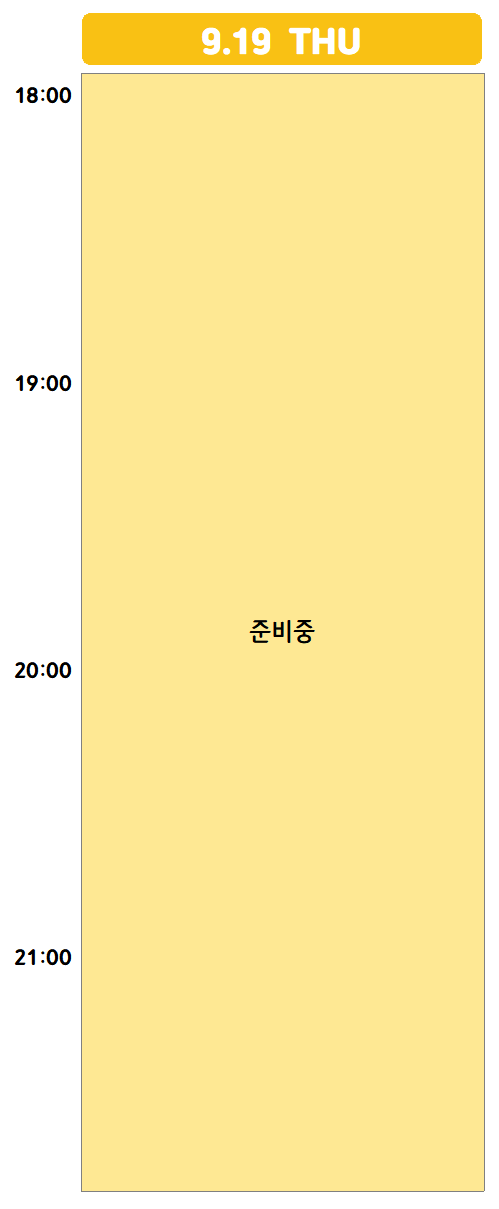
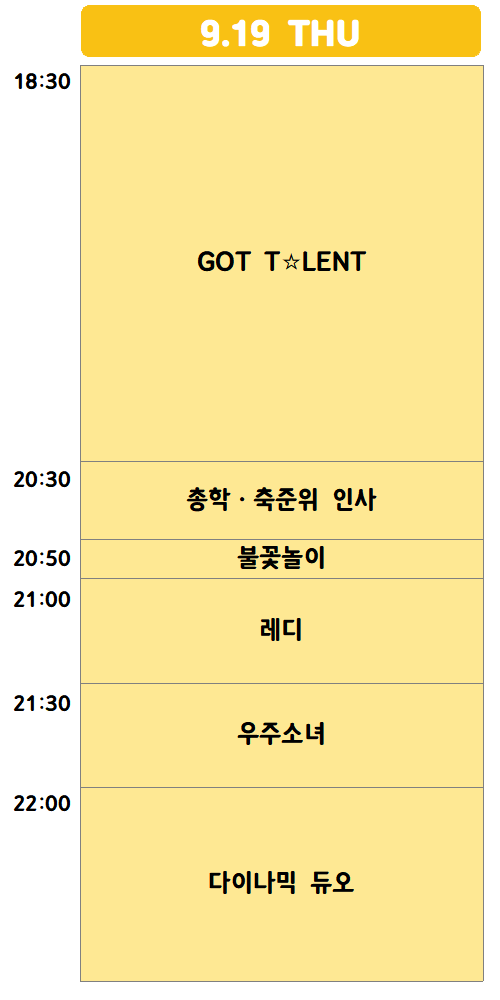
add content to timetable

diff --git a/index/templates/index.html b/index/templates/index.html
@@ -26,12 +26,12 @@
     <div class="empty" id="lineup"></div>
     <h1 class="title">라인업</h1>
     <!-- Slider main container -->
-    <div class="swiper-container">
+    <div class="swiper-container swiper-lineup">
       <!-- Additional required wrapper -->
       <div class="swiper-wrapper">
         <!-- Slides -->
-        <div class="swiper-slide"><img src="{% static 'img/lineup-wed.png' %}" alt="수요일 라인업" width="100%" height="50%"/></div>
-        <div class="swiper-slide"><img src="{% static 'img/lineup-thu.png' %}" alt="목요일 라인업" width="100%" height="50%"/></div>
+        <div class="swiper-slide"><img class="swiper-image" src="{% static 'img/lineup-wed.png' %}" alt="수요일 라인업" width="100%" height="50%"/></div>
+        <div class="swiper-slide"><img class="swiper-image" src="{% static 'img/lineup-thu.png' %}" alt="목요일 라인업" width="100%" height="50%"/></div>
       </div>
         <!-- If we need pagination -->
       <div class="swiper-pagination"></div>
@@ -43,7 +43,7 @@
     <h1 class="title" id="target">타임테이블</h1>
     <div class="timetable">
       <img src="{% static 'img/timetable-title.png' %}" class="timetableImage" alt="timetable" width="85%" />
-      <div class="swiper-container">
+      <div class="swiper-container swiper-timetable">
       <!-- Additional required wrapper -->
       <div class="swiper-wrapper">
         <!-- Slides -->
@@ -55,7 +55,11 @@
       <div class="swiper-pagination"></div>
     </div>
     </div>
+    <h6>* 9/16일(월) 총학 제공</h6>
+    <h6>* 상기 내용은 당일 상황에 따라 변경될 수 있습니다.</h6>
   </div>
+
+
   
   <div class="fontWhite contentContainer">
     <div class="empty" id="event"></div>
@@ -131,13 +135,22 @@
   <script type="text/javascript" src="{% static 'js/swiper.min.js'%}"></script>
   <script>
     /* swiper */
-    var mySwiper = new Swiper('.swiper-container', {
+    var mySwiper = new Swiper('.swiper-lineup', {
       speed: 400,
       loop: true,
       autoplay: {
         delay: 2000,
       },
     });
+
+    var mySwiper = new Swiper('.swiper-timetable', {
+      speed: 400,
+      loop: true,
+      autoplay: {
+        delay: 5000,
+      },
+    });
+    
 
     var events = new Swiper('.events', {
       slidesPerView: 'auto',

diff --git a/index/static/css/index.css b/index/static/css/index.css
@@ -100,3 +100,7 @@
     max-height: 500px;
     background-size: contain;
 }
+
+.swiper-image{
+    border-radius: 10px;
+}
